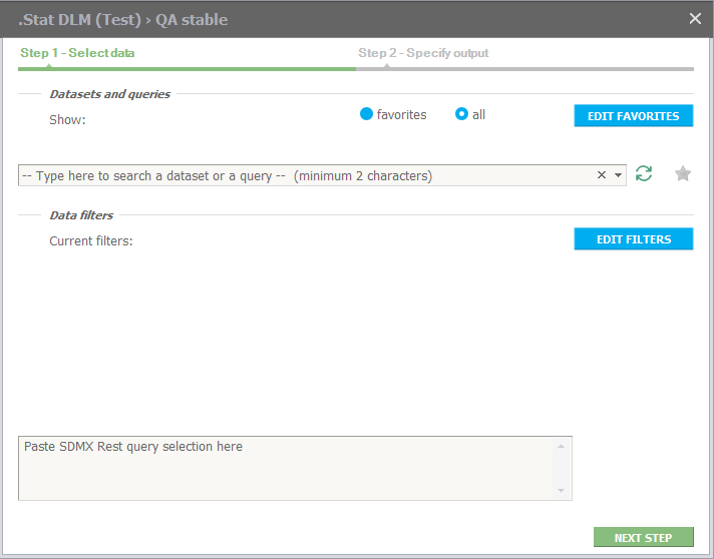
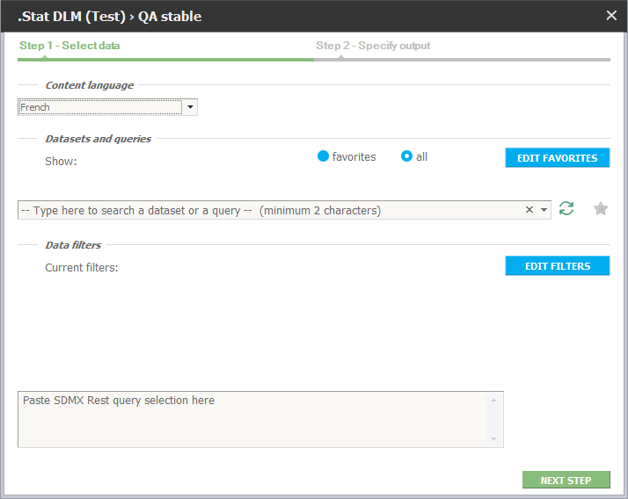
Excel-addin Update file get-data.md

diff --git a/content/using-dlm-excel-addin/get-data.md b/content/using-dlm-excel-addin/get-data.md
@@ -16,6 +16,7 @@ keywords: [
 ---
 
 > *Version history:*  
+> Configurable content language selector since [July 4, 2023 Release .Stat Suite dragonfruit / DLM Excel-addin v3.3.0](https://sis-cc.gitlab.io/dotstatsuite-documentation/changelog/#july-4-2023)  
 > Time period boundaries in the filter selector since [October 26, 2022 Release .Stat Suite DLM Excel-addin v3.2.3](https://sis-cc.gitlab.io/dotstatsuite-documentation/changelog/#october-26-2022)  
 > Data availability on dimension values since [April 28, 2022 Release .Stat Suite .NET 8.1.0](https://sis-cc.gitlab.io/dotstatsuite-documentation/changelog/#april-28-2022)
 
@@ -50,6 +51,14 @@ The step 1 of the Selection wizard provides a dropdown selector of dataflows for
 - filter the dataflow list by keyword(s)
 
 ![DLM Excel-Addin select data](/dotstatsuite-documentation/images/dlm-excel-addin-select-data.png)
+
+**Languages**  
+The Excel-addin configuration allows defining a list of languages used for the display of the content in the selection wizard and the table. Each source has its own configuration. The first language in the list is used as the initial/default language (see more details [here](https://gitlab.com/sis-cc/.stat-suite/dotstatsuite-excel-addin#languages) on how to setup the configuration).  
+The "Content language" option displays a dropdown list of available languages. Selecting a different language from the dropdown list will automatically update the content of the below dataflow selector. If a dataflow has no name in a selected content language, then only the dataflow ID is displayed. The same rule applies to all other localised contents in the "Edit filters" window.
+
+![DLM Excel-Addin select data](/dotstatsuite-documentation/images/dlm-excel-addin-content-language.png)
+
+Any change in the language selection by the user is memorised and maintained.
 
 **Favorites**  
 The user can add a dataflow to its favorites by clicking on the star icon once a dataflow is selected. Clicking on "EDIT FAVORITES" opens an extra window with the list of dataflows already flagged as favorites (with a yellow star) and all other dataflows from the same data source not flagged as favorites (with a grey star). Clicking on a grey star makes it yellow and thus the related dataflow is flagged as favorite, and vice-versa.  
@@ -87,6 +96,8 @@ The step 2 provides output options for the selected data or referential metadata
 - Choose in which Excel cell the output table should start;
 - Specify the output table layout as "Flat", "Time series down", or "Time series across";
 - Choose whether to return the localised names (labels) for dimensions and dimension members, with or without excluding the underlying codes (IDs). The language of the localised names can be picked from the ones that are available in the sourced data.
+
+**Note** that the content language selected in the initial step will also be pre-selected in this step, if it exists for the given dataflow. If it does not exist, then the first available language for that dataflow will be pre-selected. The list of available output languages is always ordered according to the order of name languages in the dataflow definition.
 
 **Content type**  
 The user can choose one of the following content type (combinations):
